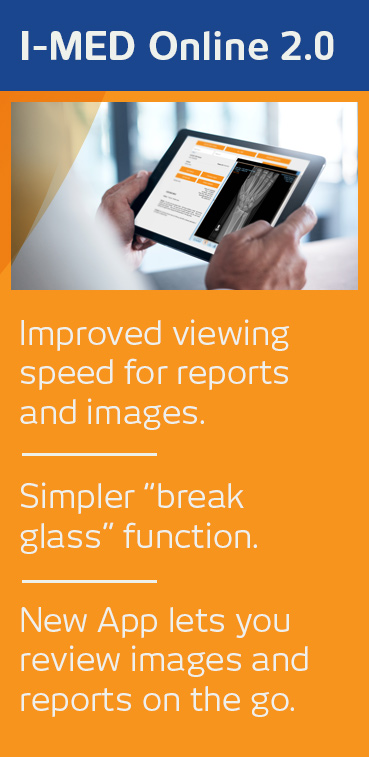
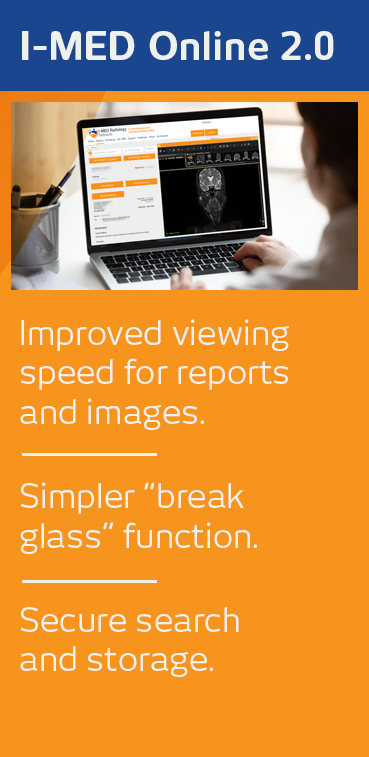
ready for review by mkt

Changed region(s): [[0.0298, 0.1215, 0.9837, 0.395], [0.0596, 0.79, 0.8347, 0.9723]]

diff --git a/referrer-portal/src/main/resources/templates/about.html b/referrer-portal/src/main/resources/templates/about.html
@@ -85,7 +85,7 @@
 										<div class="analytics.overlay"></div>
 									</div>
 
-									<h1>The new I-MED Online 2.0</h1>
+									<h1>I-MED Online 2.0</h1>
 									<div class="half-rule"></div>
 									<img
 										src="images/public/resource_banner.jpg"
@@ -93,22 +93,13 @@
 									<div style="padding-top: 10px; background-color: #fff"
 										class="w-section">
 										<div class="wrapper">
-											<div class="intro-text">I-MED Online 2.0 is a new,
-												improved patient image and reporting platform that makes it
-												easier and faster to access the information you need. It
-												means you can access patient images and reports where and
-												when you need to, on tablet, mobile or desktop.</div>
+											<div class="intro-text">I-MED Online 2.0 is a new, improved patient image and reporting platform that makes it easier and faster to access the information you need, without having to download software or change viewing modes.</div>
 
 											<div class="row w-row">
 												<div class="w-col w-col-8">
-													<h3>I-MED Online 2.0 for web and mobile:</h3>
+													<h3>I-MED Online 2.0:</h3>
 
 													<ul class="list-unordered">
-														<li class="list-item"><strong>I-MED Online
-																2.0 for web and mobile</strong>
-															<p>New I-MED Online 2.0 has an integrated App, so you
-																can access patient images and reports anywhere, any
-																time.</p></li>
 														<li class="list-item"><strong>Image and
 																report viewing on one page</strong>
 															<p>The desktop version allows you to view images and
@@ -187,85 +178,6 @@
 	text-align: center;
 }
 </style>
-										<div class="colour-light-grey section w-section">
-											<div class="wrapper" style="padding-top: 10px;">
-												<h2 style="margin-top: 10px;">The I-MED Online 2.0 App - a whole new way to view!</h2>
-												<div class="profiles row w-row">
-													<div
-														class="col-1-4 w-col w-col-3 w-col-medium-6 w-col-small-6 ng-scope">
-														<div class="hr wrapper-card">
-															<div class="profile-image-wrapper">
-																<div class="profile-container">
-																	<img
-																		src="images/public/phone_filter.jpg">
-																</div>
-																<div class="hr wrapper-profile">
-																	<div class="text-tag">
-																		The App 'Filter' allows you to search by patient, and
-																		sort by alpha, date or time period.<br>&nbsp;<br>
-																	</div>
-																</div>
-															</div>
-														</div>
-
-													</div>
-													<div
-														class="col-1-4 w-col w-col-3 w-col-medium-6 w-col-small-6 ng-scope">
-														<div class="hr wrapper-card">
-															<div class="profile-image-wrapper">
-																<div class="profile-container">
-																	<img
-																		src="images/public/phone_orders.jpg">
-																</div>
-																<div class="hr wrapper-profile">
-																	<div class="text-tag">
-																		Access all patient reports and images linked to you.
-																		Refine your search using the 'Filter' icon.<br>&nbsp;<br>
-																	</div>
-																</div>
-															</div>
-														</div>
-
-													</div>
-
-													<div
-														class="col-1-4 w-col w-col-3 w-col-medium-6 w-col-small-6 ng-scope">
-														<div class="hr wrapper-card">
-															<div class="profile-image-wrapper">
-																<div class="profile-container">
-																	<img
-																		src="images/public/report_detail.jpg">
-																</div>
-																<div class="hr wrapper-profile">
-																	<div class="text-tag">
-																		Use the 'Action' button then the 'Arrow' button to
-																		click through an image series.<br>&nbsp;<br>
-																	</div>
-																</div>
-															</div>
-														</div>
-													</div>
-													<div
-														class="col-1-4 w-col w-col-3 w-col-medium-6 w-col-small-6 ng-scope">
-														<div style="overflow: hidden;" class="hr wrapper-card">
-															<div class="profile-image-wrapper">
-																<div class="profile-container">
-																	<img
-																		src="images/public/report_detail_scroll.jpg"
-																		alt="" title="">
-																</div>
-																<div class="hr wrapper-profile">
-																	<div class="text-tag">Scroll through images, use
-																		two finger "pinch" to zoom or shrink screen, and two
-																		fingers to drag image around screen.</div>
-																</div>
-															</div>
-														</div>
-													</div>
-												</div>
-											</div>
-										</div>
-										<!-- gray bg-->
 
 										<div class="wrapper">
 											<div class="row w-row">
@@ -281,7 +193,7 @@
 																create a new one? </a>
 															<div class="accordion-answer hide">
 																<p>Yes you do. The new I-MED Online 2.0 is a
-																	completely new platform with an integrated App. This
+																	completely new platform. This
 																	requires all our users to create a new account. (You
 																	can re-use your current user name and password if you
 																	want to.)</p>
@@ -317,19 +229,6 @@
 																	via InteleViewer. We would recommend that
 																	practitioners' use the same user name for I-MED Online
 																	2.0 as they do for InteleViewer.</p>
-															</div>
-														</div>
-														<div class="accordion">
-															<img class="image-accordion"
-																src="images/public/icon-open.svg"
-																width="30"> <a class="link-accordion"
-																href="javascript:void()"> Can I use the App without
-																creating a new account? </a>
-															<div class="accordion-answer hide">
-																<p>You can download the App at any time, but it
-																	won't let you log on until you have created an I-MED
-																	Online 2.0 account. This is because we must verify each
-																	user's credentials before they can use the App.</p>
 															</div>
 														</div>
 														<div class="accordion">
@@ -380,17 +279,6 @@
 															<img class="image-accordion"
 																src="images/public/icon-open.svg"
 																width="30"> <a class="link-accordion"
-																href="javascript:void()"> Will the App work on
-																Android devices? </a>
-															<div class="accordion-answer hide">
-																<p>Yes, the new App is designed for both iOS and
-																	Android.</p>
-															</div>
-														</div>
-														<div class="accordion">
-															<img class="image-accordion"
-																src="images/public/icon-open.svg"
-																width="30"> <a class="link-accordion"
 																href="javascript:void()"> Which browser should I
 																use? </a>
 															<div class="accordion-answer hide">
@@ -430,19 +318,6 @@
 													<div class="button-primary-text">CREATE ACCOUNT</div>
 												</a>
 											</div>
-										</div>
-
-										<div class="on-center">
-											<h3>Created an account?* Now get the App!</h3>
-											<p class="on-center">(*Remember, to use the App you will
-												need to have received your verified user name.)</p>
-											<a href="javascript:void(0)"
-												onclick="window.open('https://itunes.apple.com/us/app/i-med-online/id1323846438?ls=1&amp;mt=8');"><img
-												src="images/public/download_app_store.png"
-												style="width: 200px;"></a> <a href="javascript:void(0)"
-												onclick="window.open('http://play.google.com/store/apps/details?id=au.com.imed.app');"><img
-												src="images/public/download_google_play.png"
-												style="width: 200px;"></a>
 										</div>
 
 									</div>

diff --git a/referrer-portal/src/main/resources/templates/support.html b/referrer-portal/src/main/resources/templates/support.html
@@ -24,11 +24,7 @@
 			<div class="wrapper">
 
 				<div style="background-color: #fff; margin-top: 20px;"
-					class="intro-text">I-MED Online 2.0 is designed to give
-					referring practitioners quick and easy access to patient reports
-					and images on tablet, phone or desktop. However, if you should have
-					any issues either downloading or accessing your I-MED Online 2.0,
-					we have plenty of support at hand.</div>
+					class="intro-text">I-MED Online 2.0 is designed to give referring practitioners quick and easy access to patient reports. However, if you should have any issues accessing your I-MED Online 2.0, we have plenty of support at hand.</div>
 				<h3>Support for I-MED Online 2.0 users:</h3>
 				<style>
 .support-ui {
@@ -63,12 +59,7 @@
 							href="javascript:void()"> Once I've created my account, how
 							do I access I-MED Online 2.0? </a>
 						<div class="accordion-answer hide">
-							<p>Once you've submitted your new account request, we'll send
-								you your verified user name, usually the same day or the next
-								business day. You can then access I-MED Online 2.0 from your
-								computer (desktop or laptop) or any device that can be connected
-								to the internet via the App. If you save the address to your
-								favourites/bookmarks you can be logged on in seconds.</p>
+							<p>Once you've submitted your new account request, we'll send you your verified user name, usually the same day or the next business day. You can then access I-MED Online 2.0 from your computer (desktop or laptop). If you save the address to your favourites/bookmarks you can be logged on in seconds.</p>
 						</div>
 					</div>
 					<div class="accordion">
@@ -149,16 +140,6 @@
 						</div>
 					</div>
 				</div>
-				<h3>Created an account?* Now get the App!</h3>
-				<p>(*Remember, to use the App you will need to have received
-					your verified user name.)</p>
-				<a href="javascript:void(0)"
-					onclick="window.open('https://itunes.apple.com/us/app/i-med-online/id1323846438?ls=1&amp;mt=8');"><img
-					src="images/public/download_app_store.png"
-					style="width: 200px;"></a> <a href="javascript:void(0)"
-					onclick="window.open('http://play.google.com/store/apps/details?id=au.com.imed.app');"><img
-					src="images/public/download_google_play.png"
-					style="width: 200px;"></a>
 			</div>
 		</div>
 		<script>

diff --git a/referrer-portal/src/main/resources/templates/fragments/layout/header.html b/referrer-portal/src/main/resources/templates/fragments/layout/header.html
@@ -45,11 +45,11 @@
           <div>Resources</div>
         </a>
         <nav onmouseover="$(&quot;#head-resource-nav&quot;).show();" onmouseout="$(&quot;#head-resource-nav&quot;).hide();" id="head-resource-nav" class="list-about w-dropdown-list" style="background-color: rgb(40, 53, 85); z-index: 300; display: none;">
-			<a style="width:265px;" class="link-about w-dropdown-link" href="javascript:void(0);" th:href="@{/book}">Find Clinic</a>
-       		<a style="width:265px;" class="link-about w-dropdown-link" href="javascript:void(0);" onclick="window.open(&#39;https://i-med.com.au/doctors/practice-software-connection&#39;);$(&#39;#head-resource-nav&#39;).hide();">Practice Software Connection</a>
-			<a style="width:265px;" class="link-about w-dropdown-link" href="javascript:void(0);" onclick="window.open(&#39;https://i-med.com.au/doctors/referral-pads&#39;);$(&#39;#head-resource-nav&#39;).hide();">Order Referrral Pads</a>
-			<a style="width:265px;" class="link-about w-dropdown-link" href="javascript:void(0);" onclick="window.open(&#39;https://i-med.com.au/doctors/access-patient-images&#39;);$(&#39;#head-resource-nav&#39;).hide();">Desktop Shortcut / Installers</a>
-    	</nav>
+					<a style="width:265px;" class="link-about w-dropdown-link" href="https://www.i-med.com.au/find-a-clinic" target="_blank">Find Clinic</a>
+		      <a style="width:265px;" class="link-about w-dropdown-link" href="javascript:void(0);" onclick="window.open(&#39;https://i-med.com.au/doctors/practice-software-connection&#39;);$(&#39;#head-resource-nav&#39;).hide();">Practice Software Connection</a>
+					<a style="width:265px;" class="link-about w-dropdown-link" href="javascript:void(0);" onclick="window.open(&#39;https://i-med.com.au/doctors/referral-pads&#39;);$(&#39;#head-resource-nav&#39;).hide();">Order Referrral Pads</a>
+					<a style="width:265px;" class="link-about w-dropdown-link" href="javascript:void(0);" onclick="window.open(&#39;https://i-med.com.au/doctors/access-patient-images&#39;);$(&#39;#head-resource-nav&#39;).hide();">Desktop Shortcut / Installers</a>
+	    	</nav>
 			        
 			      	<a sec:authorize="!isAuthenticated()" th:href="@{/login}" style="background-image:none;padding-left:20px;" class="tab-clinic w-inline-block w-tab-link">
 			          <div>Log In</div>

diff --git a/referrer-portal/src/main/resources/templates/home.html b/referrer-portal/src/main/resources/templates/home.html
@@ -20,17 +20,14 @@
 			<div class="wrapper">
 				<h1>I-MED Online 2.0 for medical practitioners</h1>
 				<div class="half-rule"></div>
-				<div class="intro-text">Welcome to I-MED Online 2.0, where
-					practitioners can quickly and easily access patient images and
-					reports, on desktop, tablet or mobile. From this page practitioners
-					can also order referral pads and ask for technical support.</div>
+				<div class="intro-text">Welcome to I-MED Online 2.0, where practitioners can quickly and easily access patient reports and images. From this page practitioners can also contact us for technical support or set up e-Referrals.</div>
 				<div class="row w-row">
 					<div class="col-1-2 col-1-2-padding-left w-col w-col-6">
 						<a class="w-inline-block wrapper-card" data-ix="hover-profile"							
 							style="transition: color 0.2s ease 0s, transform 100ms ease 0s; transform: translateX(0px) translateY(0px) translateZ(0px);" th:href="@{/results}">
 							<img src="images/public/Image-card-network_new.jpg">
 							<div class="link-index">Results - access patient images and reports</div>
-							<p>I-MED Online 2.0 gives practitioners access to diagnostic images and reports via desktop and mobile. We are progressively rolling out I-MED Online 2.0 across the country.</p>
+							<p>I-MED Online 2.0 gives practitioners access to diagnostic images and reports. We are progressively rolling out I-MED Online 2.0 across the country.</p>
 						</a>
 					</div>
 					<div class="col-1-2 col-1-2-padding-left w-col w-col-6">
@@ -51,7 +48,7 @@
 							style="transition: color 0.2s ease 0s, transform 100ms ease 0s; transform: translateX(0px) translateY(0px) translateZ(0px);">
 							<img src="images/public/telehealth.jpg">
 							<div class="link-index">e-Referrals for better patient outcomes</div>
-							<p>Send us your imaging requests electronically and securely, via HealthLink, from within your Best Practice software. We'll contact your patient to make an appointment.</p>
+							<p>Send us your imaging requests electronically and securely from within your Best Practice software. We'll contact your patient to make an appointment.</p>
 						</a>
 					</div>
 					<div class="col-1-2 col-1-2-padding-right w-col w-col-6">

diff --git a/referrer-portal/src/main/resources/templates/apply.html b/referrer-portal/src/main/resources/templates/apply.html
@@ -6,7 +6,6 @@
 <body>
 	<div th:replace="fragments/layout/header :: header"></div>
 	
-	<div class="image-procedures section"></div>
 	<div class="blue-alert-bar">This page is for medical practitioners only.<br/>If you are a patient, please visit <a href="https://myi-med.com.au">myi-med.com.au</a> to access your reports and images.</div>
 	<div class="colour-light-grey section">
     <div class="wrapper">
